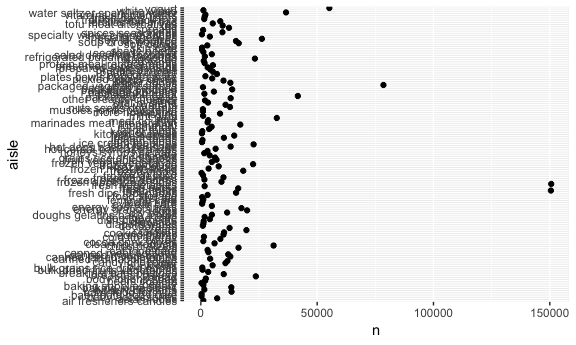
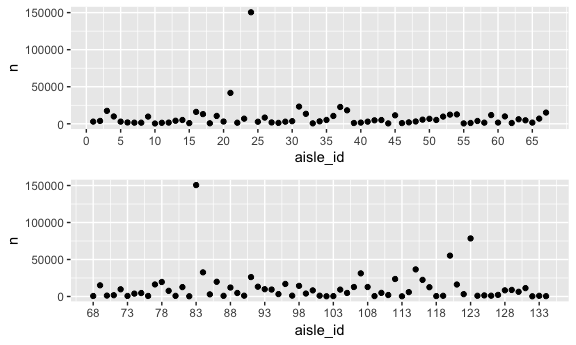
Final commit

diff --git a/p8105_hw3.md b/p8105_hw3.md
@@ -33,6 +33,9 @@ brfss_data %>%
 | MA    |    7|
 
 ``` r
+#During 2002, the only three states which had data on exactly seven counties were Connecticut, Florida, and Massachusetts
+
+
 brfss_data %>% 
   distinct(county, year, .keep_all = TRUE) %>%
   select(c(year, state, county)) %>%
@@ -45,6 +48,9 @@ brfss_data %>%
 <img src="p8105_hw3_files/figure-markdown_github/q1-1.png" width="90%" />
 
 ``` r
+#This plot does not seem to be a good choice for this data set. It is hard to enterpret anything from the graphic, it may be better to try and look into each state on its own rather than comparing them all on one plot.
+
+
 brfss_data %>%
   filter(year %in% c(2002, 2006, 2010), state == "NY", response == "Excellent") %>%
   group_by(year) %>%
@@ -60,15 +66,22 @@ brfss_data %>%
 |  2010|  22.70000|  3.567212|
 
 ``` r
+#It appears the mean did not change too much through the years, the standard deviation does however decrease.
+
 brfss_data %>%
   group_by(year, state, response) %>%
   summarize(mean = mean(data_value, na.rm = T)) %>%
   ggplot(aes(x = year, y = mean)) +
   geom_point(alpha = 0.5) +
+  theme(axis.text.x = element_text(angle = 50, hjust = 1)) +
   facet_grid(. ~ response)
 ```
 
 <img src="p8105_hw3_files/figure-markdown_github/q1-2.png" width="90%" />
+
+``` r
+#The proportion per each response appears to be consistant accross all the years
+```
 
 Question 2
 ----------
@@ -103,12 +116,28 @@ instacart %>%
 | packaged cheese            |   41699|
 
 ``` r
-instacart %>%
-  group_by(aisle) %>%
+instacart_plot1 = instacart %>%
+  mutate(aisle_id = factor(aisle_id, levels = c(1:134))) %>%
+  filter(aisle_id %in% c(1:67)) %>%
+  mutate(aisle_id = as.numeric(aisle_id)) %>%
+  group_by(aisle_id) %>%
   count() %>%
-  ggplot(aes(x = aisle, y = n)) +
+  ggplot(aes(x = aisle_id, y = n)) +
   geom_point() +
-  coord_flip()
+  scale_x_continuous(breaks = seq(0, 67, 5))
+
+
+instacart_plot2 = instacart %>%
+  mutate(aisle_id = factor(aisle_id, levels = c(1:134))) %>%
+  filter(aisle_id %in% c(68:134)) %>%
+  mutate(aisle_id = as.numeric(aisle_id)) %>%
+  group_by(aisle_id) %>%
+  count() %>%
+  ggplot(aes(x = aisle_id, y = n)) +
+  geom_point() +
+  scale_x_continuous(breaks = seq(68, 134, 5))
+
+instacart_plot1 / instacart_plot2
 ```
 
 <img src="p8105_hw3_files/figure-markdown_github/q2-1.png" width="90%" />
@@ -170,24 +199,42 @@ Question 3
 ny_noaa_clean = ny_noaa %>%
   janitor::clean_names() %>%
   separate(date, into = c("year", "month", "day"), sep = "-") %>%
-  mutate(tmax = as.integer(tmax), 
+  mutate(year = factor(year),
+         tmax = as.integer(tmax), 
          tmin = as.integer(tmin))
-  
 
 ny_noaa_clean %>%
   count(snow) %>%
   top_n(5) %>%
   knitr::kable()
+```
 
+    ## Selecting by n
+
+|  snow|        n|
+|-----:|--------:|
+|     0|  2008508|
+|    13|    23095|
+|    25|    31022|
+|    51|    18274|
+|    NA|   381221|
+
+``` r
 ny_noaa_clean %>%
   filter(month %in% c("01", "07")) %>%
   group_by(month, id, year) %>%
   summarize(mean_tmax = mean(tmax, na.rm = TRUE)) %>%
-  ggplot(aes(x = id, y = mean_tmax)) +
-    geom_point() +
+  ggplot(aes(x = year, y = mean_tmax)) +
+    geom_point(alpha = 0.5) +
+    theme(axis.text.x = element_text(angle = 75, hjust = 1)) +
     facet_grid(. ~ month)
+```
 
+    ## Warning: Removed 5970 rows containing missing values (geom_point).
 
+<img src="p8105_hw3_files/figure-markdown_github/q3-1.png" width="90%" />
+
+``` r
 tmax_vs_tmin = ny_noaa_clean %>%
   ggplot(aes(x = tmax, y = tmin)) +
   geom_point()
@@ -200,3 +247,9 @@ snow_per_year = ny_noaa_clean %>%
 
 tmax_vs_tmin + snow_per_year
 ```
+
+    ## Warning: Removed 1136276 rows containing missing values (geom_point).
+
+    ## `stat_bin()` using `bins = 30`. Pick better value with `binwidth`.
+
+<img src="p8105_hw3_files/figure-markdown_github/q3-2.png" width="90%" />
